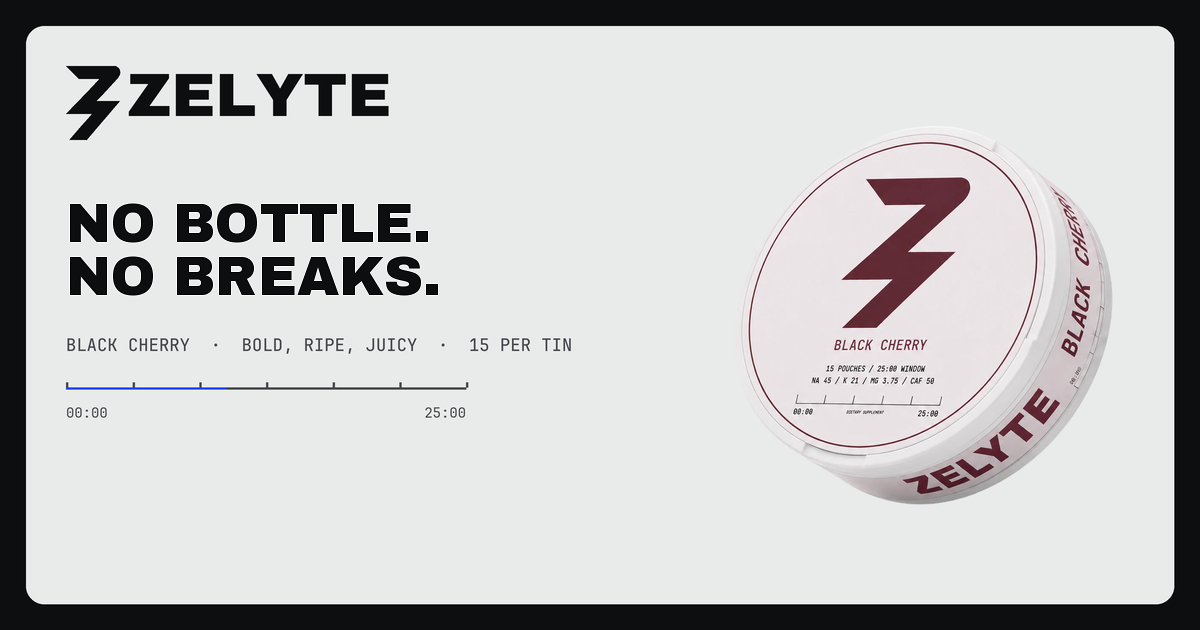
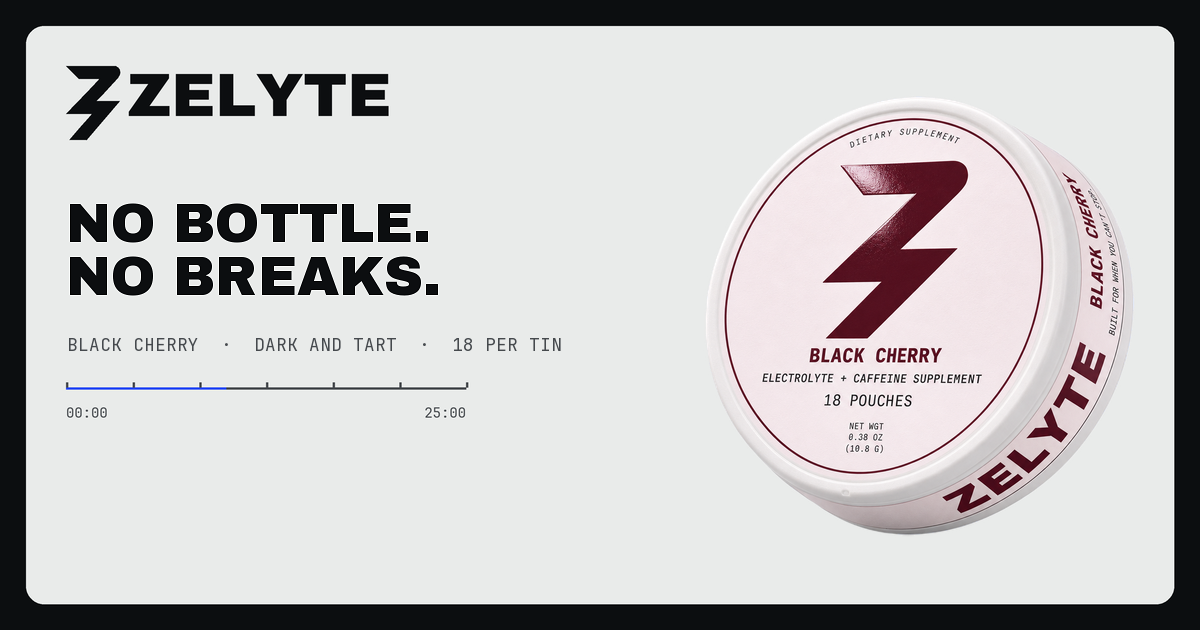
Replace every tin photo with the new 18-pouch product shots
New cutouts tin-crispy-mint.webp and tin-black-cherry.webp (900x920, same
tin scale) from CRISPYMINT.png / BLACKCHERRY.png replace tin-mint, tin-cherry
and the unused tin.webp in the heroes, flavor cards, PDPs and Product JSON-LD.
Share images rebuilt with the new tins and 18 per tin copy, cache-busted with
?v=2 and honest alt text. Source PNGs kept in the root, excluded from deploys.

diff --git a/index.html b/index.html
@@ -13,14 +13,14 @@
 <meta property="og:url" content="https://www.takezelyte.com/">
 <meta property="og:title" content="ZELYTE: Active Hydration Pouches">
 <meta property="og:description" content="55 mg sodium and 40 mg caffeine per pouch. Use 1–3 per session. 18 pouches per tin. No water needed.">
-<meta property="og:image" content="https://www.takezelyte.com/assets/img/og.png">
+<meta property="og:image" content="https://www.takezelyte.com/assets/img/og.png?v=2">
 <meta property="og:image:width" content="1200">
 <meta property="og:image:height" content="630">
-<meta property="og:image:alt" content="A ZELYTE tin beside a single pouch on an asphalt ground.">
+<meta property="og:image:alt" content="ZELYTE Crispy Mint and Black Cherry tins, 18 pouches each.">
 <meta name="twitter:card" content="summary_large_image">
 <meta name="twitter:title" content="ZELYTE: Active Hydration Pouches">
 <meta name="twitter:description" content="55 mg sodium and 40 mg caffeine per pouch. Use 1–3 per session. 18 pouches per tin. No water needed.">
-<meta name="twitter:image" content="https://www.takezelyte.com/assets/img/og.png">
+<meta name="twitter:image" content="https://www.takezelyte.com/assets/img/og.png?v=2">
 <link rel="canonical" href="https://www.takezelyte.com/">
 <link rel="icon" href="assets/favicon.svg" type="image/svg+xml">
 <link rel="icon" href="assets/img/favicon-32.png" sizes="32x32" type="image/png">
@@ -142,7 +142,7 @@
           <!-- Background layer: the tin, ringed by orbiting pouches. Rings are
                generated in main.js so radius and pouch size are real pixels. -->
           <div class="orbit" id="orbit">
-            <img class="orbit__tin" src="assets/img/tin-mint.webp" width="900" height="948" alt="A ZELYTE tin in Crispy Mint, tilted to show the lid and side." fetchpriority="high" decoding="async">
+            <img class="orbit__tin" src="assets/img/tin-crispy-mint.webp" width="900" height="920" alt="A ZELYTE tin in Crispy Mint, tilted to show the lid and side." fetchpriority="high" decoding="async">
           </div>
 
           <div class="hero__copy">
@@ -322,7 +322,7 @@
         <div class="flavors__grid" style="margin-top:clamp(28px,3.4vw,44px)">
           <article class="sku sku--mint reveal">
             <div class="sku__img">
-              <img src="assets/img/tin-mint.webp" width="900" height="948" alt="ZELYTE Crispy Mint tin" loading="lazy" decoding="async">
+              <img src="assets/img/tin-crispy-mint.webp" width="900" height="920" alt="ZELYTE Crispy Mint tin" loading="lazy" decoding="async">
             </div>
             <h3 class="sku__name">Crispy Mint</h3>
             <p class="sku__desc">Cool and clean.</p>
@@ -335,7 +335,7 @@
           </article>
           <article class="sku sku--cherry reveal">
             <div class="sku__img">
-              <img src="assets/img/tin-cherry.webp" width="900" height="948" alt="ZELYTE Black Cherry tin" loading="lazy" decoding="async">
+              <img src="assets/img/tin-black-cherry.webp" width="900" height="920" alt="ZELYTE Black Cherry tin" loading="lazy" decoding="async">
             </div>
             <h3 class="sku__name">Black Cherry</h3>
             <p class="sku__desc">Dark and tart, not sweet.</p>

diff --git a/shop.html b/shop.html
@@ -13,14 +13,14 @@
 <meta property="og:url" content="https://www.takezelyte.com/shop.html">
 <meta property="og:title" content="ZELYTE: Shop">
 <meta property="og:description" content="Crispy Mint and Black Cherry. Pro Pack 3 tins from $30, Elite Pack 5 tins from $45 on subscribe. 18 pouches per tin.">
-<meta property="og:image" content="https://www.takezelyte.com/assets/img/og.png">
+<meta property="og:image" content="https://www.takezelyte.com/assets/img/og.png?v=2">
 <meta property="og:image:width" content="1200">
 <meta property="og:image:height" content="630">
-<meta property="og:image:alt" content="A ZELYTE tin beside a single pouch on an asphalt ground.">
+<meta property="og:image:alt" content="ZELYTE Crispy Mint and Black Cherry tins, 18 pouches each.">
 <meta name="twitter:card" content="summary_large_image">
 <meta name="twitter:title" content="ZELYTE: Shop">
 <meta name="twitter:description" content="Crispy Mint and Black Cherry. Pro Pack 3 tins from $30, Elite Pack 5 tins from $45 on subscribe. 18 pouches per tin.">
-<meta name="twitter:image" content="https://www.takezelyte.com/assets/img/og.png">
+<meta name="twitter:image" content="https://www.takezelyte.com/assets/img/og.png?v=2">
 <link rel="canonical" href="https://www.takezelyte.com/shop.html">
 <link rel="icon" href="assets/favicon.svg" type="image/svg+xml">
 <link rel="icon" href="assets/img/favicon-32.png" sizes="32x32" type="image/png">
@@ -113,7 +113,7 @@
       <div class="wrap">
         <div class="hero__grid">
           <div class="orbit" id="orbit">
-            <img class="orbit__tin" src="assets/img/tin-mint.webp" width="900" height="948" alt="A ZELYTE tin in Crispy Mint, tilted to show the lid and side." fetchpriority="high" decoding="async">
+            <img class="orbit__tin" src="assets/img/tin-crispy-mint.webp" width="900" height="920" alt="A ZELYTE tin in Crispy Mint, tilted to show the lid and side." fetchpriority="high" decoding="async">
           </div>
 
           <div class="hero__copy">
@@ -143,7 +143,7 @@
         <div class="flavors__grid" style="margin-top:clamp(28px,3.4vw,44px)">
           <article class="sku sku--mint reveal">
             <div class="sku__img">
-              <img src="assets/img/tin-mint.webp" width="900" height="948" alt="ZELYTE Crispy Mint tin" loading="lazy" decoding="async">
+              <img src="assets/img/tin-crispy-mint.webp" width="900" height="920" alt="ZELYTE Crispy Mint tin" loading="lazy" decoding="async">
             </div>
             <h3 class="sku__name">Crispy Mint</h3>
             <p class="sku__desc">Cool and clean.</p>
@@ -156,7 +156,7 @@
           </article>
           <article class="sku sku--cherry reveal">
             <div class="sku__img">
-              <img src="assets/img/tin-cherry.webp" width="900" height="948" alt="ZELYTE Black Cherry tin" loading="lazy" decoding="async">
+              <img src="assets/img/tin-black-cherry.webp" width="900" height="920" alt="ZELYTE Black Cherry tin" loading="lazy" decoding="async">
             </div>
             <h3 class="sku__name">Black Cherry</h3>
             <p class="sku__desc">Dark and tart, not sweet.</p>

diff --git a/black-cherry.html b/black-cherry.html
@@ -13,14 +13,14 @@
 <meta property="og:url" content="https://www.takezelyte.com/black-cherry.html">
 <meta property="og:title" content="ZELYTE Black Cherry">
 <meta property="og:description" content="Dark and tart, not sweet. 55 mg sodium and 40 mg caffeine per pouch. Use 1–3 per session. 18 pouches per tin.">
-<meta property="og:image" content="https://www.takezelyte.com/assets/img/og-cherry.png">
+<meta property="og:image" content="https://www.takezelyte.com/assets/img/og-cherry.png?v=2">
 <meta property="og:image:width" content="1200">
 <meta property="og:image:height" content="630">
-<meta property="og:image:alt" content="A ZELYTE Black Cherry tin on an asphalt ground.">
+<meta property="og:image:alt" content="A ZELYTE Black Cherry tin, 18 pouches.">
 <meta name="twitter:card" content="summary_large_image">
 <meta name="twitter:title" content="ZELYTE Black Cherry">
 <meta name="twitter:description" content="Dark and tart, not sweet. 55 mg sodium and 40 mg caffeine per pouch. Use 1–3 per session. 18 pouches per tin.">
-<meta name="twitter:image" content="https://www.takezelyte.com/assets/img/og-cherry.png">
+<meta name="twitter:image" content="https://www.takezelyte.com/assets/img/og-cherry.png?v=2">
 <link rel="canonical" href="https://www.takezelyte.com/black-cherry.html">
 <link rel="icon" href="assets/favicon.svg" type="image/svg+xml">
 <link rel="icon" href="assets/img/favicon-32.png" sizes="32x32" type="image/png">
@@ -41,7 +41,7 @@
       "@type": "Brand",
       "name": "ZELYTE"
     },
-    "image": "https://www.takezelyte.com/assets/img/tin-cherry.webp",
+    "image": "https://www.takezelyte.com/assets/img/tin-black-cherry.webp",
     "url": "https://www.takezelyte.com/black-cherry.html",
     "category": "Active hydration pouch",
     "additionalProperty": [
@@ -200,7 +200,7 @@
       <div class="wrap">
         <div class="pdp__hero">
           <div class="pdp__stage">
-            <img class="pdp__tin" id="pdp-tin" src="assets/img/tin-cherry.webp" width="900" height="948" alt="A ZELYTE tin in Black Cherry, tilted to show the lid and side." fetchpriority="high" decoding="async">
+            <img class="pdp__tin" id="pdp-tin" src="assets/img/tin-black-cherry.webp" width="900" height="920" alt="A ZELYTE tin in Black Cherry, tilted to show the lid and side." fetchpriority="high" decoding="async">
           </div>
           <div class="pdp__copy">
             <p class="pdp__chip reveal">Zero sugar</p>
@@ -387,7 +387,7 @@
           <li class="reveal"><span class="uses__k">Best for</span><p>Long efforts where mint gets tiring.</p></li>
         </ul>
         <a class="pdp__swap reveal" href="crispy-mint.html">
-          <img src="assets/img/tin-mint.webp" width="900" height="948" alt="" loading="lazy" decoding="async">
+          <img src="assets/img/tin-crispy-mint.webp" width="900" height="920" alt="" loading="lazy" decoding="async">
           <span>
             <span class="pdp__swap-k">The other flavor</span>
             <span class="pdp__swap-n">Crispy Mint</span>

diff --git a/crispy-mint.html b/crispy-mint.html
@@ -13,14 +13,14 @@
 <meta property="og:url" content="https://www.takezelyte.com/crispy-mint.html">
 <meta property="og:title" content="ZELYTE Crispy Mint">
 <meta property="og:description" content="Cool and clean. 55 mg sodium and 40 mg caffeine per pouch. Use 1–3 per session. 18 pouches per tin.">
-<meta property="og:image" content="https://www.takezelyte.com/assets/img/og-mint.png">
+<meta property="og:image" content="https://www.takezelyte.com/assets/img/og-mint.png?v=2">
 <meta property="og:image:width" content="1200">
 <meta property="og:image:height" content="630">
-<meta property="og:image:alt" content="A ZELYTE Crispy Mint tin on an asphalt ground.">
+<meta property="og:image:alt" content="A ZELYTE Crispy Mint tin, 18 pouches.">
 <meta name="twitter:card" content="summary_large_image">
 <meta name="twitter:title" content="ZELYTE Crispy Mint">
 <meta name="twitter:description" content="Cool and clean. 55 mg sodium and 40 mg caffeine per pouch. Use 1–3 per session. 18 pouches per tin.">
-<meta name="twitter:image" content="https://www.takezelyte.com/assets/img/og-mint.png">
+<meta name="twitter:image" content="https://www.takezelyte.com/assets/img/og-mint.png?v=2">
 <link rel="canonical" href="https://www.takezelyte.com/crispy-mint.html">
 <link rel="icon" href="assets/favicon.svg" type="image/svg+xml">
 <link rel="icon" href="assets/img/favicon-32.png" sizes="32x32" type="image/png">
@@ -41,7 +41,7 @@
       "@type": "Brand",
       "name": "ZELYTE"
     },
-    "image": "https://www.takezelyte.com/assets/img/tin-mint.webp",
+    "image": "https://www.takezelyte.com/assets/img/tin-crispy-mint.webp",
     "url": "https://www.takezelyte.com/crispy-mint.html",
     "category": "Active hydration pouch",
     "additionalProperty": [
@@ -200,7 +200,7 @@
       <div class="wrap">
         <div class="pdp__hero">
           <div class="pdp__stage">
-            <img class="pdp__tin" id="pdp-tin" src="assets/img/tin-mint.webp" width="900" height="948" alt="A ZELYTE tin in Crispy Mint, tilted to show the lid and side." fetchpriority="high" decoding="async">
+            <img class="pdp__tin" id="pdp-tin" src="assets/img/tin-crispy-mint.webp" width="900" height="920" alt="A ZELYTE tin in Crispy Mint, tilted to show the lid and side." fetchpriority="high" decoding="async">
           </div>
           <div class="pdp__copy">
             <p class="pdp__chip reveal">Zero sugar</p>
@@ -387,7 +387,7 @@
           <li class="reveal"><span class="uses__k">Best for</span><p>Hard, short efforts where you want a clear mouth.</p></li>
         </ul>
         <a class="pdp__swap reveal" href="black-cherry.html">
-          <img src="assets/img/tin-cherry.webp" width="900" height="948" alt="" loading="lazy" decoding="async">
+          <img src="assets/img/tin-black-cherry.webp" width="900" height="920" alt="" loading="lazy" decoding="async">
           <span>
             <span class="pdp__swap-k">The other flavor</span>
             <span class="pdp__swap-n">Black Cherry</span>

diff --git a/shipping.html b/shipping.html
@@ -13,14 +13,14 @@
 <meta property="og:url" content="https://www.takezelyte.com/shipping.html">
 <meta property="og:title" content="ZELYTE: Shipping and returns">
 <meta property="og:description" content="Shipping shown at checkout. US only at launch, first batch January 2027, 30 days to return an unopened tin for a full refund.">
-<meta property="og:image" content="https://www.takezelyte.com/assets/img/og.png">
+<meta property="og:image" content="https://www.takezelyte.com/assets/img/og.png?v=2">
 <meta property="og:image:width" content="1200">
 <meta property="og:image:height" content="630">
-<meta property="og:image:alt" content="A ZELYTE tin beside a single pouch on an asphalt ground.">
+<meta property="og:image:alt" content="ZELYTE Crispy Mint and Black Cherry tins, 18 pouches each.">
 <meta name="twitter:card" content="summary_large_image">
 <meta name="twitter:title" content="ZELYTE: Shipping and returns">
 <meta name="twitter:description" content="Shipping shown at checkout. US only at launch, first batch January 2027, 30 days to return an unopened tin for a full refund.">
-<meta name="twitter:image" content="https://www.takezelyte.com/assets/img/og.png">
+<meta name="twitter:image" content="https://www.takezelyte.com/assets/img/og.png?v=2">
 <link rel="canonical" href="https://www.takezelyte.com/shipping.html">
 <link rel="icon" href="assets/favicon.svg" type="image/svg+xml">
 <link rel="icon" href="assets/img/favicon-32.png" sizes="32x32" type="image/png">

diff --git a/terms.html b/terms.html
@@ -13,14 +13,14 @@
 <meta property="og:url" content="https://www.takezelyte.com/terms.html">
 <meta property="og:title" content="ZELYTE: Terms of service">
 <meta property="og:description" content="The terms that govern buying from and using takezelyte.com — eligibility, orders, subscriptions, launch codes, and accessibility.">
-<meta property="og:image" content="https://www.takezelyte.com/assets/img/og.png">
+<meta property="og:image" content="https://www.takezelyte.com/assets/img/og.png?v=2">
 <meta property="og:image:width" content="1200">
 <meta property="og:image:height" content="630">
-<meta property="og:image:alt" content="A ZELYTE tin beside a single pouch on an asphalt ground.">
+<meta property="og:image:alt" content="ZELYTE Crispy Mint and Black Cherry tins, 18 pouches each.">
 <meta name="twitter:card" content="summary_large_image">
 <meta name="twitter:title" content="ZELYTE: Terms of service">
 <meta name="twitter:description" content="The terms that govern buying from and using takezelyte.com — eligibility, orders, subscriptions, launch codes, and accessibility.">
-<meta name="twitter:image" content="https://www.takezelyte.com/assets/img/og.png">
+<meta name="twitter:image" content="https://www.takezelyte.com/assets/img/og.png?v=2">
 <link rel="canonical" href="https://www.takezelyte.com/terms.html">
 <link rel="icon" href="assets/favicon.svg" type="image/svg+xml">
 <link rel="icon" href="assets/img/favicon-32.png" sizes="32x32" type="image/png">

diff --git a/founder.html b/founder.html
@@ -13,14 +13,14 @@
 <meta property="og:url" content="https://www.takezelyte.com/founder.html">
 <meta property="og:title" content="ZELYTE: The founder story">
 <meta property="og:description" content="Hudson Murray rowed through high school. In a boat you cannot stop and you cannot carry anything. That is where ZELYTE started.">
-<meta property="og:image" content="https://www.takezelyte.com/assets/img/og.png">
+<meta property="og:image" content="https://www.takezelyte.com/assets/img/og.png?v=2">
 <meta property="og:image:width" content="1200">
 <meta property="og:image:height" content="630">
-<meta property="og:image:alt" content="A ZELYTE tin beside a single pouch on an asphalt ground.">
+<meta property="og:image:alt" content="ZELYTE Crispy Mint and Black Cherry tins, 18 pouches each.">
 <meta name="twitter:card" content="summary_large_image">
 <meta name="twitter:title" content="ZELYTE: The founder story">
 <meta name="twitter:description" content="Hudson Murray rowed through high school. In a boat you cannot stop and you cannot carry anything. That is where ZELYTE started.">
-<meta name="twitter:image" content="https://www.takezelyte.com/assets/img/og.png">
+<meta name="twitter:image" content="https://www.takezelyte.com/assets/img/og.png?v=2">
 <link rel="canonical" href="https://www.takezelyte.com/founder.html">
 <link rel="icon" href="assets/favicon.svg" type="image/svg+xml">
 <link rel="icon" href="assets/img/favicon-32.png" sizes="32x32" type="image/png">

diff --git a/privacy.html b/privacy.html
@@ -13,14 +13,14 @@
 <meta property="og:url" content="https://www.takezelyte.com/privacy.html">
 <meta property="og:title" content="ZELYTE: Privacy policy">
 <meta property="og:description" content="What ZELYTE collects, why, how long it is kept, and how to have it deleted. Plainly, and specific to what this site actually does.">
-<meta property="og:image" content="https://www.takezelyte.com/assets/img/og.png">
+<meta property="og:image" content="https://www.takezelyte.com/assets/img/og.png?v=2">
 <meta property="og:image:width" content="1200">
 <meta property="og:image:height" content="630">
-<meta property="og:image:alt" content="A ZELYTE tin beside a single pouch on an asphalt ground.">
+<meta property="og:image:alt" content="ZELYTE Crispy Mint and Black Cherry tins, 18 pouches each.">
 <meta name="twitter:card" content="summary_large_image">
 <meta name="twitter:title" content="ZELYTE: Privacy policy">
 <meta name="twitter:description" content="What ZELYTE collects, why, how long it is kept, and how to have it deleted. Plainly, and specific to what this site actually does.">
-<meta name="twitter:image" content="https://www.takezelyte.com/assets/img/og.png">
+<meta name="twitter:image" content="https://www.takezelyte.com/assets/img/og.png?v=2">
 <link rel="canonical" href="https://www.takezelyte.com/privacy.html">
 <link rel="icon" href="assets/favicon.svg" type="image/svg+xml">
 <link rel="icon" href="assets/img/favicon-32.png" sizes="32x32" type="image/png">

diff --git a/science.html b/science.html
@@ -13,14 +13,14 @@
 <meta property="og:url" content="https://www.takezelyte.com/science.html">
 <meta property="og:title" content="ZELYTE: Science">
 <meta property="og:description" content="How ZELYTE works: 55 mg sodium and 40 mg caffeine per pouch across a 25-minute active window. Full formula and directions.">
-<meta property="og:image" content="https://www.takezelyte.com/assets/img/og.png">
+<meta property="og:image" content="https://www.takezelyte.com/assets/img/og.png?v=2">
 <meta property="og:image:width" content="1200">
 <meta property="og:image:height" content="630">
-<meta property="og:image:alt" content="A ZELYTE tin beside a single pouch on an asphalt ground.">
+<meta property="og:image:alt" content="ZELYTE Crispy Mint and Black Cherry tins, 18 pouches each.">
 <meta name="twitter:card" content="summary_large_image">
 <meta name="twitter:title" content="ZELYTE: Science">
 <meta name="twitter:description" content="How ZELYTE works: 55 mg sodium and 40 mg caffeine per pouch across a 25-minute active window. Full formula and directions.">
-<meta name="twitter:image" content="https://www.takezelyte.com/assets/img/og.png">
+<meta name="twitter:image" content="https://www.takezelyte.com/assets/img/og.png?v=2">
 <link rel="canonical" href="https://www.takezelyte.com/science.html">
 <link rel="icon" href="assets/favicon.svg" type="image/svg+xml">
 <link rel="icon" href="assets/img/favicon-32.png" sizes="32x32" type="image/png">

diff --git a/faq.html b/faq.html
@@ -13,14 +13,14 @@
 <meta property="og:url" content="https://www.takezelyte.com/faq.html">
 <meta property="og:title" content="ZELYTE: FAQ">
 <meta property="og:description" content="How long a pouch lasts, what a buccal pouch is, how to use one, caffeine content, the daily maximum, ordering and shipping.">
-<meta property="og:image" content="https://www.takezelyte.com/assets/img/og.png">
+<meta property="og:image" content="https://www.takezelyte.com/assets/img/og.png?v=2">
 <meta property="og:image:width" content="1200">
 <meta property="og:image:height" content="630">
-<meta property="og:image:alt" content="A ZELYTE tin beside a single pouch on an asphalt ground.">
+<meta property="og:image:alt" content="ZELYTE Crispy Mint and Black Cherry tins, 18 pouches each.">
 <meta name="twitter:card" content="summary_large_image">
 <meta name="twitter:title" content="ZELYTE: FAQ">
 <meta name="twitter:description" content="How long a pouch lasts, what a buccal pouch is, how to use one, caffeine content, the daily maximum, ordering and shipping.">
-<meta name="twitter:image" content="https://www.takezelyte.com/assets/img/og.png">
+<meta name="twitter:image" content="https://www.takezelyte.com/assets/img/og.png?v=2">
 <link rel="canonical" href="https://www.takezelyte.com/faq.html">
 <link rel="icon" href="assets/favicon.svg" type="image/svg+xml">
 <link rel="icon" href="assets/img/favicon-32.png" sizes="32x32" type="image/png">

diff --git a/about.html b/about.html
@@ -13,14 +13,14 @@
 <meta property="og:url" content="https://www.takezelyte.com/about.html">
 <meta property="og:title" content="ZELYTE: About">
 <meta property="og:description" content="Built by an athlete who got tired of stopping to drink. The story, the milestones, and how ZELYTE compares.">
-<meta property="og:image" content="https://www.takezelyte.com/assets/img/og.png">
+<meta property="og:image" content="https://www.takezelyte.com/assets/img/og.png?v=2">
 <meta property="og:image:width" content="1200">
 <meta property="og:image:height" content="630">
-<meta property="og:image:alt" content="A ZELYTE tin beside a single pouch on an asphalt ground.">
+<meta property="og:image:alt" content="ZELYTE Crispy Mint and Black Cherry tins, 18 pouches each.">
 <meta name="twitter:card" content="summary_large_image">
 <meta name="twitter:title" content="ZELYTE: About">
 <meta name="twitter:description" content="Built by an athlete who got tired of stopping to drink. The story, the milestones, and how ZELYTE compares.">
-<meta name="twitter:image" content="https://www.takezelyte.com/assets/img/og.png">
+<meta name="twitter:image" content="https://www.takezelyte.com/assets/img/og.png?v=2">
 <link rel="canonical" href="https://www.takezelyte.com/about.html">
 <link rel="icon" href="assets/favicon.svg" type="image/svg+xml">
 <link rel="icon" href="assets/img/favicon-32.png" sizes="32x32" type="image/png">

diff --git a/styles.css b/styles.css
@@ -594,8 +594,8 @@ body.menu-open .cta-bar{transform:translateY(calc(100% + 20px));opacity:0;visibi
   transition:transform 200ms var(--ease),border-color 200ms var(--ease);
 }
 .sku:hover{transform:translateY(-4px);border-color:var(--sku)}
-/* Product shot. Both tin files are exported at an identical 900x948 with the
-   tin normalised to the same 900px content width, so height:100% renders the
+/* Product shot. Both tin files are exported at an identical 900x920 with the
+   tin normalised to the same 880px content width, so height:100% renders the
    two flavors at matching scale and the copy below them stays aligned. */
 .sku__img{
   width:100%;margin-bottom:clamp(20px,2.6vw,28px);
@@ -603,7 +603,7 @@ body.menu-open .cta-bar{transform:translateY(calc(100% + 20px));opacity:0;visibi
 }
 /* Height sits on the img, not the box: a percentage height would have to
    resolve against the box and Chrome leaves it auto here, which let the tin
-   overflow and paint over the copy. Both files are 900x948, so an absolute
+   overflow and paint over the copy. Both files are 900x920, so an absolute
    height gives the two flavors identical rendered widths. */
 .sku__img img{height:clamp(180px,22vw,280px);width:auto;max-width:100%;transition:transform 320ms var(--ease)}
 .sku:hover .sku__img img{transform:scale(1.05)}
